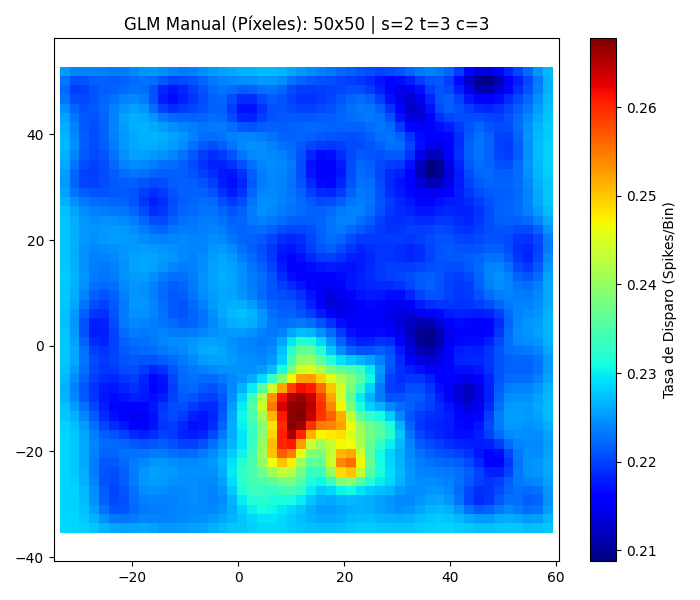
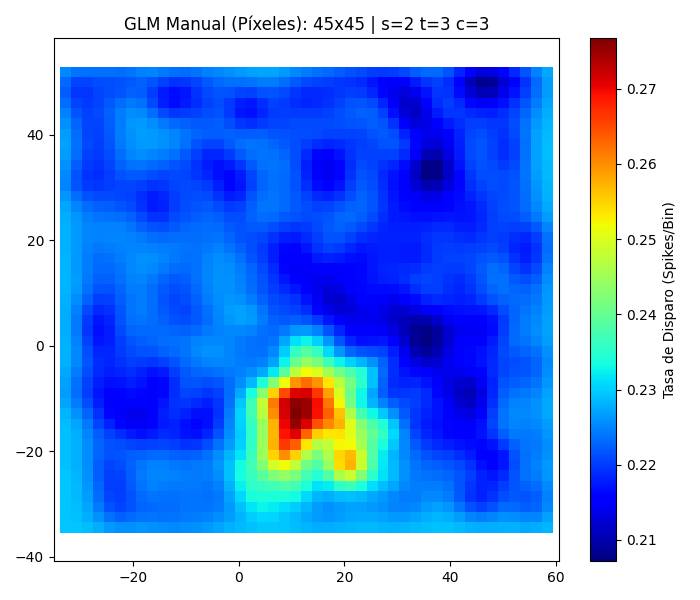
agrego figuras

diff --git a/README.md b/README.md
@@ -8,3 +8,21 @@ El método realiza lo siguiente:
 
 Podemos ver el resultado devuelto por esta función. Esta es nuestra **place cell** candidata (sesión 2, tetrodo 3, célula 3) 
 ![Figura 1](Figure_1.png)
+
+### Modelado Estadístico: GLM y GAM (`glm_analysis.py`)
+Para evaluar la codificación espacial de la neurona, utilizamos Modelos Lineales Generalizados (GLM) y Modelos Aditivos Generalizados (GAM) asumiendo una distribución de Poisson para los spikes.
+
+#### GLM Manual (Figura 3)
+Ajustamos el modelo de manera manual dividiendo el espacio mediante una grilla de funciones base independientes.
+
+El espacio se fracciona en muchísimos cuadraditos, y el modelo ajusta el peso de cada región por separado. El algoritmo cuenta con regularización (ridge) para que los bines que el animal nunca pisó no "exploten".
+![Figura 3](Figure_3.png)
+
+#### GAM Automático con Splines (GAM 1 y GAM 2)
+En otro acercamiento, implementamos un GAM utilizando **Splines** que encuentra la penalización óptima mediante cross validation.
+
+- **GAM 1**: Serie temporal ("Predicción vs Realidad"). En negro se ven las barras que representan los disparos (spikes) discretos reales que emitió la neurona. La línea roja continua superpuesta es lo que el modelo GAM predice que debería haber disparado basándose exclusivamente en la posición exacta del degú en ese momento.
+![GAM 1](GAM1.png)
+
+- **GAM 2**: Es el place field predictivo del GAM. El place field se expresa en este caso como un gradiente suave y continuo, reflejando de manera mucho más natural la verdadera probabilidad espacial de la célula (comparar con modelos lineales).
+![GAM 2](GAM2.png)